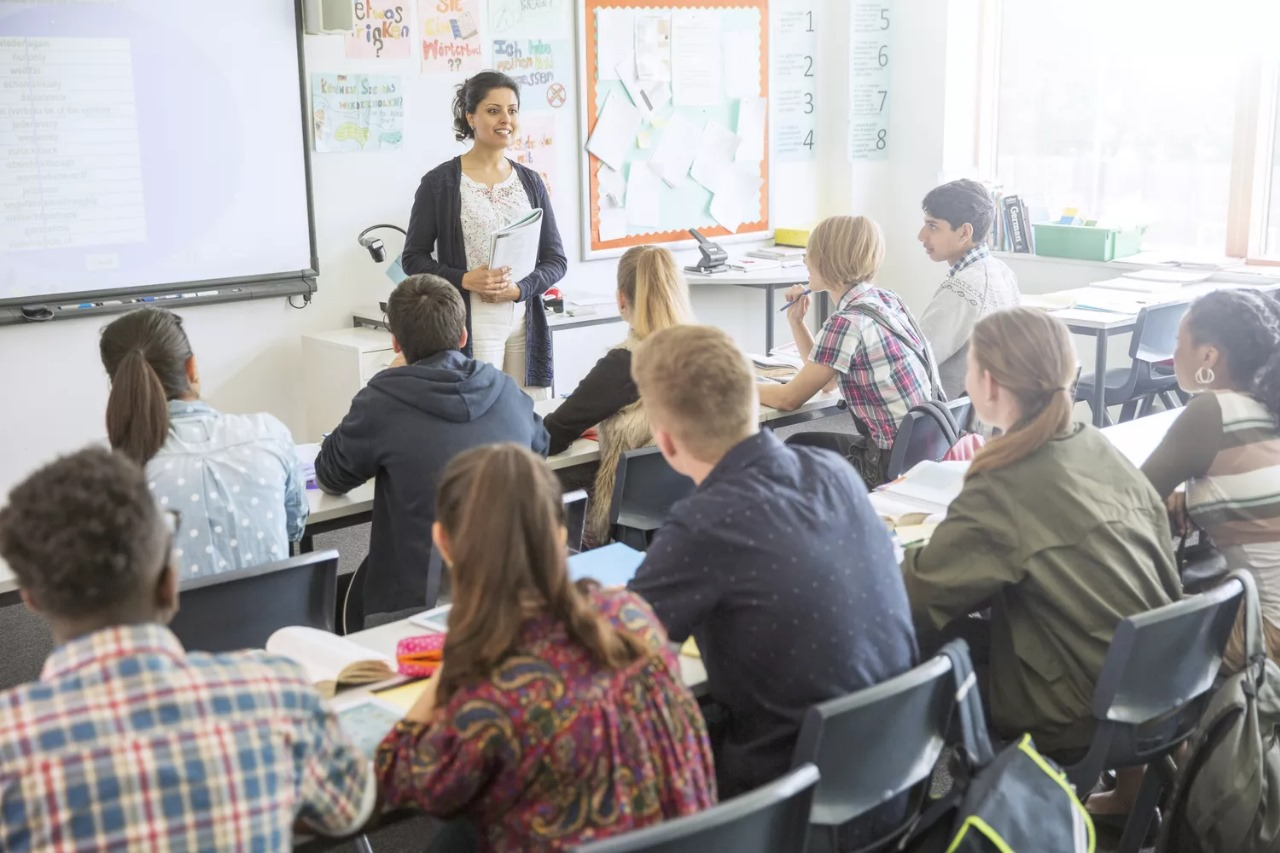
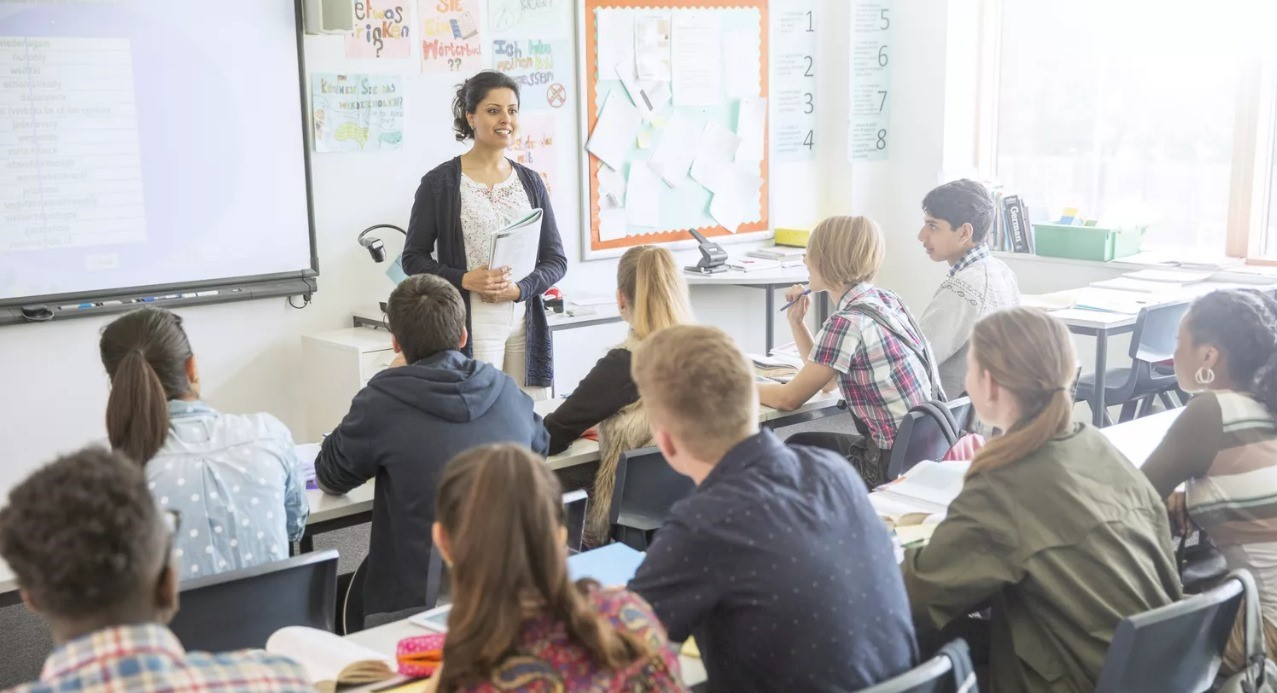
digital

diff --git a/src/app/digital-marketing/page.js b/src/app/digital-marketing/page.js
@@ -13,21 +13,27 @@ const Page = () => {
             <ServiceBanner text1={'Digital Marketing'} img={img1} />
             <div className='2xl:p-20 xl:p-16 p-12'>
                 <h1 className='2xl:text-5xl xl:text-4xl font-semibold'>Introduction to Digital Marketing.</h1>
-                <Image className='my-8' src={img1} alt='' />
-                <p className='2xl:text-xl xl:text-lg font-normal mt-6'>
-                    In today’s hyper-connected world communications are conducted through online, internet is the keystone of communication. Digital marketing is also called online marketing, it is a key tool for business success but what exactly is digital marketing? and why has it become essential in today’s business strategies? Some common strategies and techniques in digital marketing include:
-                </p>
-                <p className='2xl:text-xl xl:text-lg font-normal my-10'>
-                    <span className='font-bold text-3xl inline-block mb-[6px]'>Defining Digital Marketing</span> <br />
-                    Digital marketing includes a wide range of online channels and strategies to promote products and services through various digital channels, this includes not only email, social media, web-based advertising etc. Unlike traditional marketing channels that rely on print, television and radio advertising more so, digital marketing helps to reach the target audience and engage online better.
-                </p>
+                <div className="flex 2xl:flex-row xl:flex-row flex-col items-stretch my-10 gap-10">
+                    <div className="2xl:w-1/2 xl:w-1/2 w-full">
+                        <p className='2xl:text-xl xl:text-lg font-normal text-left'>
+                            In today’s hyper-connected world communications are conducted through online, internet is the keystone of communication. Digital marketing is also called online marketing, it is a key tool for business success but what exactly is digital marketing? and why has it become essential in today’s business strategies? Some common strategies and techniques in digital marketing include:
+                        </p>
+                        <p className='2xl:text-xl xl:text-lg font-normal mt-6'>
+                            <span className='font-bold text-3xl inline-block mb-[6px]'>Defining Digital Marketing</span> <br />
+                            Digital marketing includes a wide range of online channels and strategies to promote products and services through various digital channels, this includes not only email, social media, web-based advertising etc. Unlike traditional marketing channels that rely on print, television and radio advertising more so, digital marketing helps to reach the target audience and engage online better.
+                        </p>
+                    </div>
+                    <div className="2xl:w-1/2 xl:w-1/2 w-full">
+                        <Image className='w-full' src={img1} alt='' />
+                    </div>
+                </div>
                 <p className='2xl:text-xl xl:text-lg font-normal my-10'>
                     <span className='font-bold text-3xl inline-block mb-[6px]'>Components of digital marketing</span> <br />
-                    Search Engine Optimization : Search engine optimization is the process of increasing website visibility and ranking on search engine result pages, by strategic use of keywords, content optimization and link building, businesses can increase their organic traffic and improve their online presence.
+                    <span className="font-bold">Search Engine Optimization</span> : Search engine optimization is the process of increasing website visibility and ranking on search engine result pages, by strategic use of keywords, content optimization and link building, businesses can increase their organic traffic and improve their online presence.
                 </p>
                 <p className='2xl:text-xl xl:text-lg font-normal my-10'>
                     <span className='font-bold text-3xl inline-block mb-[6px]'>Social Media Marketing (SMM)</span> <br />
-                    Search Engine Optimization : Search engine optimization is the process of increasing website visibility and ranking on search engine result pages, by strategic use of keywords, content optimization and link building, businesses can increase their organic traffic and improve their online presence.
+                    <span className="font-bold">Search Engine Optimization</span> : Search engine optimization is the process of increasing website visibility and ranking on search engine result pages, by strategic use of keywords, content optimization and link building, businesses can increase their organic traffic and improve their online presence.
                 </p>
                 <p className='2xl:text-xl xl:text-lg font-normal my-10'>
                     <span className='font-bold text-3xl inline-block mb-[6px]'>Content Marketing</span> <br />
